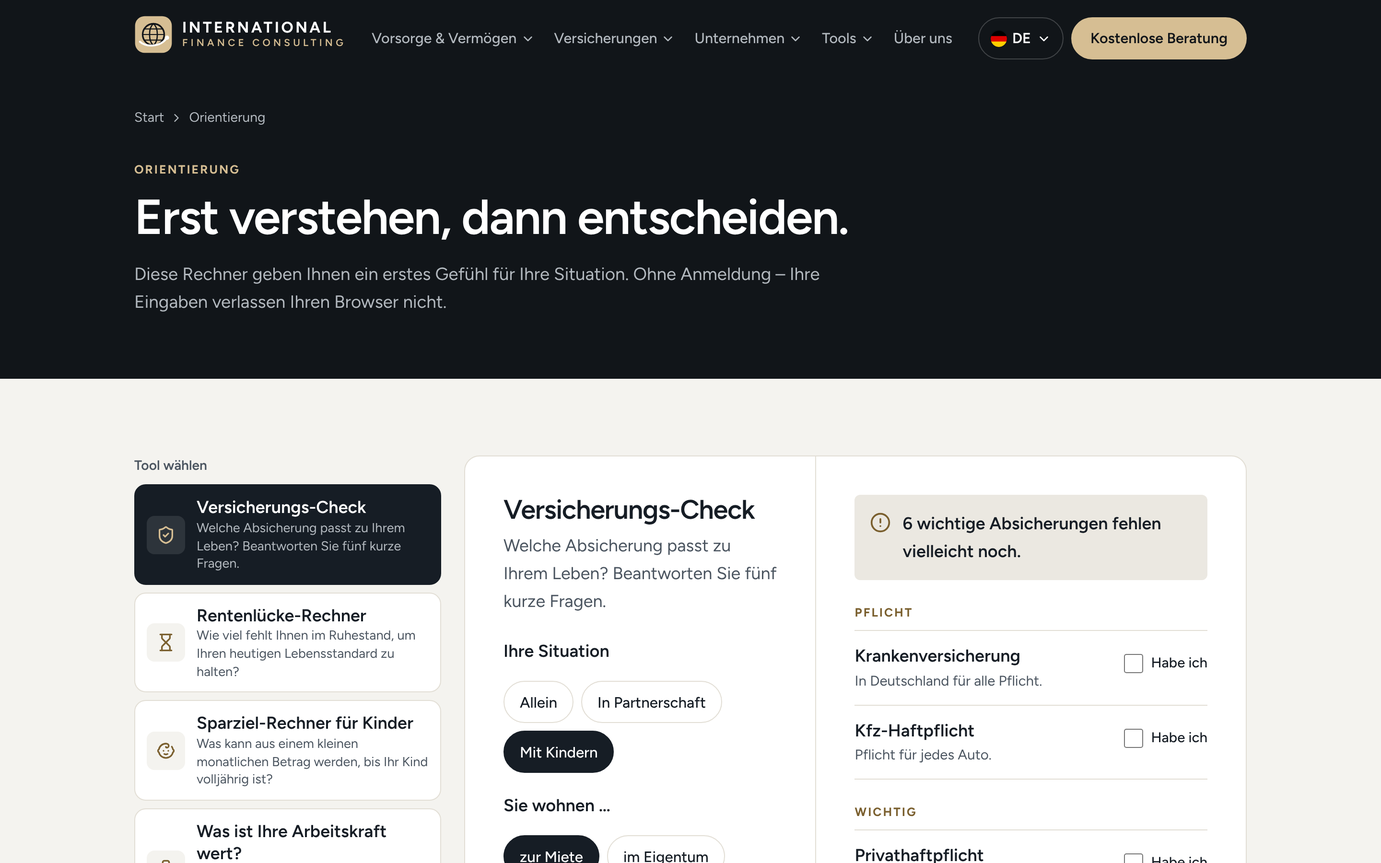
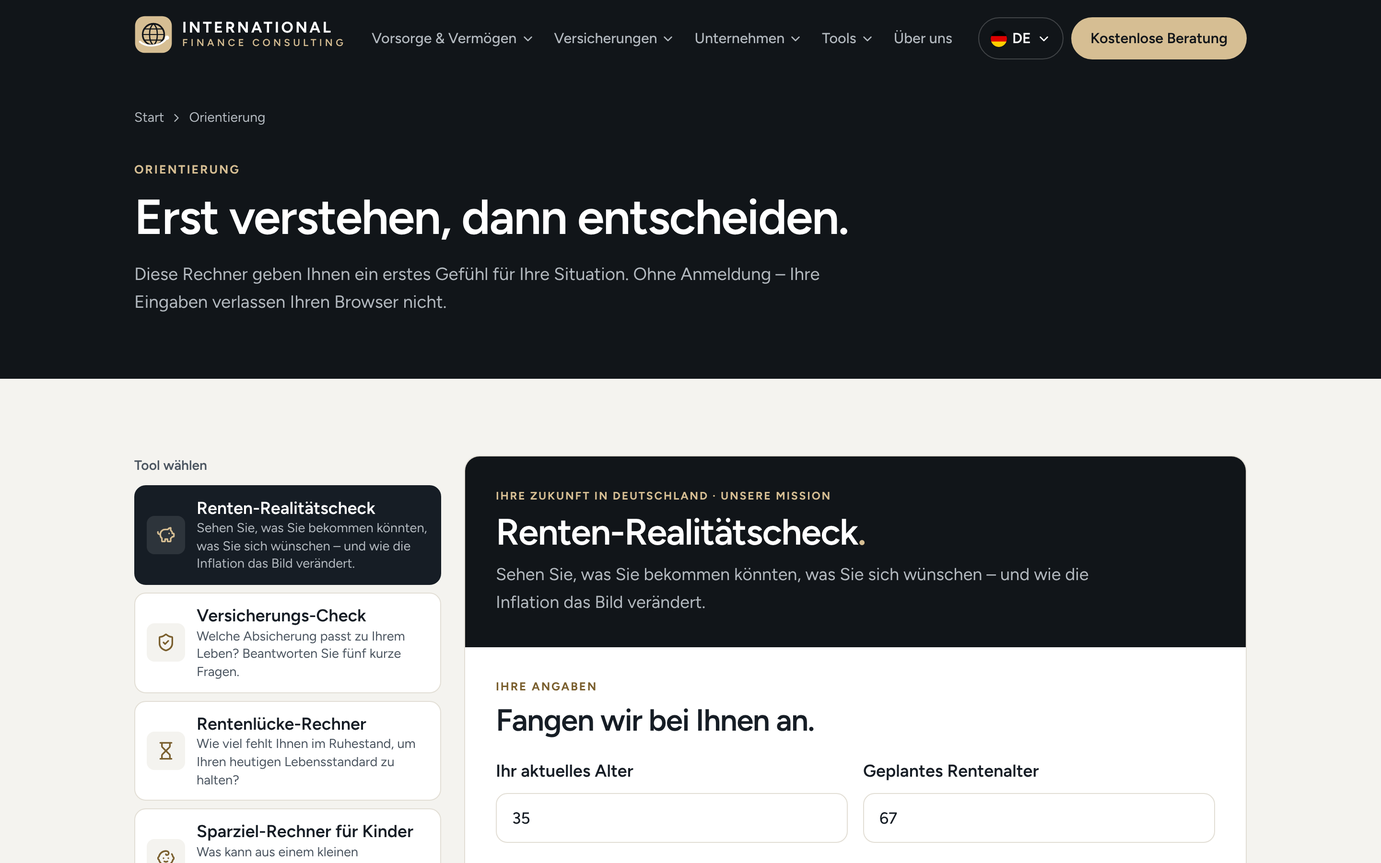
Renten-Realitätscheck als erstes Tool (4 Sprachen), neues Einzelfoto von Ismael Palanga
- Gelieferter Rechner im Website-Design, Rechenlogik, Schritte und Buttons unverändert
- Erster Eintrag im Tool-Menü und auf der Orientierungsseite
- Test für alle drei Schritte und die Fehlermeldung

Claude-Session: https://claude.ai/code/session_017NN5d4KgF8reEG7oLsMV1M

diff --git a/src/components/calculators/retirementCheckText.ts b/src/components/calculators/retirementCheckText.ts
@@ -1,0 +1,112 @@
+/** Texte zum „Retirement Reality Check“ (DE/EN/FR/AR). Rechenlogik: RetirementCheck.tsx */
+import type { Locale } from "@/lib/i18n";
+
+export type Txt = {
+  eyebrow: string; title: string; intro: string;
+  inputsLabel: string; inputsTitle: string; age: string; retire: string; salary: string; worked: string;
+  goal: string; goalHint: string; inflationNote: [string, string, string]; error: string; calculate: string;
+  progress: string;
+  s1Label: string; s1Title: string; paper: string; perMonthRetire: string; want: string; perMonthToday: string;
+  firstGap: string; firstGapNote: string; surplus: string; s1Text: string; catch: string; change: string;
+  s2Label: string; but: string; s2Title: string; defTitle: string; defText: string;
+  s2Text: [string, string, string, string]; paper2: string; futureEuros: string; real: string; realNote: string;
+  lossLabel: string; lossNote: string; perMonth: string; showGap: string; back: string;
+  s3Label: string; s3Title: string; real3: string; perMonthTodayEuros: string; want3: string;
+  gapLabel: string; noGap: string; coverage: string; s3Text: string; again: string;
+  fine: string;
+};
+
+export const T: Record<Locale, Txt> = {
+  en: {
+    eyebrow: "Your future in Germany · Our mission", title: "Retirement Reality Check", intro: "Discover what you might receive, what you want, and how inflation changes the picture.",
+    inputsLabel: "Your information", inputsTitle: "Let's start with you.", age: "Your current age", retire: "Age you plan to retire", salary: "Monthly gross salary (€)", worked: "Years worked in Germany",
+    goal: "How much would you like to have each month in retirement?", goalHint: "Choose an amount in today's money — what would support your desired lifestyle now?",
+    inflationNote: ["Fixed inflation assumption: ", "2.8% per year", ". No adjustment needed."],
+    error: "Please enter valid details. Retirement age must exceed your age; years worked cannot exceed your age minus 16.",
+    calculate: "See my retirement results →", progress: "Results progress",
+    s1Label: "Step 1 of 3 · The first picture", s1Title: "Here's what retirement looks like on paper.", paper: "Your estimated pension on paper", perMonthRetire: "Per month when you retire",
+    want: "How much you want", perMonthToday: "Per month, in today's money", firstGap: "At first glance, the difference is",
+    firstGapNote: "A simple comparison — but these amounts are in different years, so this is NOT your real retirement gap.", surplus: " (apparent surplus)",
+    s1Text: "Seems straightforward, right? There's one important thing we haven't accounted for yet.", catch: "There's a catch →", change: "Change my details",
+    s2Label: "Step 2 of 3 · The reality check", but: "BUT.", s2Title: "What about inflation?", defTitle: "What is inflation?",
+    defText: "Over time, prices generally rise. That means the same €1,000 will buy less in the future than it buys today.",
+    s2Text: ["With an assumed ", "2.8% annual inflation rate", " over ", " years, here's what changes:"],
+    paper2: "Pension on paper", futureEuros: "Future euros per month", real: "Its purchasing power in today's money", realNote: "What that pension could buy, measured in today's euros",
+    lossLabel: "Purchasing power difference", lossNote: "The difference between the nominal pension and its value in today's euros — not money deducted from your pension.",
+    perMonth: "/month", showGap: "Show my real retirement gap →", back: "← Back",
+    s3Label: "Step 3 of 3 · Your retirement gap", s3Title: "Now let's compare what really matters.", real3: "Your pension's purchasing power", perMonthTodayEuros: "Per month in today's euros",
+    want3: "Your desired retirement income", gapLabel: "YOUR ESTIMATED MONTHLY RETIREMENT GAP", noGap: "No estimated shortfall",
+    coverage: "{p}% of your target covered by the estimated pension (before deductions).", s3Text: "Planning ahead can help you understand your options for closing this gap.", again: "Try another scenario ↻",
+    fine: "Illustrative educational tool, not an official pension forecast or personal financial advice. Pension estimated using a simplified German pension-points model: annual earnings divided by an assumed reference average annual salary of €51,944 (capped at €101,400), multiplied by years worked plus projected years until retirement, and €42.52 per point monthly. Assumes salary stays constant relative to average earnings and nominal pension values increase by 2% annually. Actual pension points, future pension increases, retirement deductions, foreign pension entitlements and changes to German law may differ. Results exclude taxes and health/long-term-care contributions. The fixed 2.8% inflation figure is a scenario assumption, not a verified long-run German average. The on-paper gap compares future euros with today's euros and is intentionally marked as not comparable; the final gap uses today's purchasing power for both amounts.",
+  },
+  de: {
+    eyebrow: "Ihre Zukunft in Deutschland · Unsere Mission", title: "Renten-Realitätscheck", intro: "Sehen Sie, was Sie bekommen könnten, was Sie sich wünschen – und wie die Inflation das Bild verändert.",
+    inputsLabel: "Ihre Angaben", inputsTitle: "Fangen wir bei Ihnen an.", age: "Ihr aktuelles Alter", retire: "Geplantes Rentenalter", salary: "Monatliches Bruttogehalt (€)", worked: "Bisherige Arbeitsjahre in Deutschland",
+    goal: "Wie viel möchten Sie im Ruhestand pro Monat zur Verfügung haben?", goalHint: "Wählen Sie einen Betrag in heutigem Geld – was würde Ihren Wunsch-Lebensstil heute finanzieren?",
+    inflationNote: ["Feste Inflationsannahme: ", "2,8 % pro Jahr", ". Keine Anpassung nötig."],
+    error: "Bitte gültige Angaben machen. Das Rentenalter muss über Ihrem Alter liegen; Arbeitsjahre dürfen höchstens Ihr Alter minus 16 sein.",
+    calculate: "Mein Ergebnis anzeigen →", progress: "Fortschritt",
+    s1Label: "Schritt 1 von 3 · Der erste Eindruck", s1Title: "So sieht Ihre Rente auf dem Papier aus.", paper: "Ihre geschätzte Rente auf dem Papier", perMonthRetire: "Pro Monat bei Rentenbeginn",
+    want: "Ihr Wunschbetrag", perMonthToday: "Pro Monat, in heutigem Geld", firstGap: "Auf den ersten Blick beträgt die Differenz",
+    firstGapNote: "Ein einfacher Vergleich – aber die Beträge stammen aus verschiedenen Jahren. Das ist also NICHT Ihre echte Rentenlücke.", surplus: " (scheinbarer Überschuss)",
+    s1Text: "Klingt einfach, oder? Einen wichtigen Punkt haben wir aber noch nicht berücksichtigt.", catch: "Es gibt einen Haken →", change: "Angaben ändern",
+    s2Label: "Schritt 2 von 3 · Der Realitätscheck", but: "ABER.", s2Title: "Was ist mit der Inflation?", defTitle: "Was ist Inflation?",
+    defText: "Mit der Zeit steigen die Preise in der Regel. Für dieselben 1.000 € bekommen Sie in Zukunft also weniger als heute.",
+    s2Text: ["Bei einer angenommenen ", "Inflation von 2,8 % pro Jahr", " über ", " Jahre ändert sich Folgendes:"],
+    paper2: "Rente auf dem Papier", futureEuros: "Zukünftige Euro pro Monat", real: "Ihre Kaufkraft in heutigem Geld", realNote: "Was Sie sich mit dieser Rente leisten könnten – gemessen in heutigen Euro",
+    lossLabel: "Kaufkraft-Unterschied", lossNote: "Die Differenz zwischen der Rente auf dem Papier und ihrem Wert in heutigen Euro – kein Geld, das von Ihrer Rente abgezogen wird.",
+    perMonth: "/Monat", showGap: "Meine echte Rentenlücke zeigen →", back: "← Zurück",
+    s3Label: "Schritt 3 von 3 · Ihre Rentenlücke", s3Title: "Jetzt vergleichen wir, was wirklich zählt.", real3: "Kaufkraft Ihrer Rente", perMonthTodayEuros: "Pro Monat in heutigen Euro",
+    want3: "Ihr gewünschtes Einkommen im Ruhestand", gapLabel: "IHRE GESCHÄTZTE MONATLICHE RENTENLÜCKE", noGap: "Keine geschätzte Lücke",
+    coverage: "{p} % Ihres Ziels sind durch die geschätzte Rente gedeckt (vor Abzügen).", s3Text: "Wer früh plant, kennt seine Möglichkeiten, diese Lücke zu schließen.", again: "Anderes Szenario testen ↻",
+    fine: "Vereinfachtes Info-Tool – keine offizielle Rentenprognose und keine persönliche Finanzberatung. Die Rente wird mit einem vereinfachten Entgeltpunkte-Modell geschätzt: Jahresgehalt geteilt durch ein angenommenes Durchschnittsentgelt von 51.944 € (begrenzt auf 101.400 €), multipliziert mit bisherigen plus noch erwarteten Arbeitsjahren, und 42,52 € pro Punkt im Monat. Annahmen: Ihr Gehalt bleibt im Verhältnis zum Durchschnitt gleich, die Rentenwerte steigen nominal um 2 % pro Jahr. Tatsächliche Entgeltpunkte, künftige Rentenerhöhungen, Abschläge, ausländische Rentenansprüche und Gesetzesänderungen können abweichen. Steuern sowie Kranken- und Pflegeversicherungsbeiträge sind nicht abgezogen. Die feste Inflation von 2,8 % ist eine Szenario-Annahme, kein geprüfter langjähriger Durchschnitt für Deutschland. Die Differenz „auf dem Papier“ vergleicht künftige mit heutigen Euro und ist bewusst als nicht vergleichbar gekennzeichnet; die endgültige Lücke vergleicht beide Beträge in heutiger Kaufkraft.",
+  },
+  fr: {
+    eyebrow: "Votre avenir en Allemagne · Notre mission", title: "Le vrai bilan de votre retraite", intro: "Découvrez ce que vous pourriez toucher, ce que vous souhaitez – et comment l'inflation change la donne.",
+    inputsLabel: "Vos informations", inputsTitle: "Commençons par vous.", age: "Votre âge actuel", retire: "Âge prévu de départ à la retraite", salary: "Salaire brut mensuel (€)", worked: "Années travaillées en Allemagne",
+    goal: "De combien aimeriez-vous disposer chaque mois à la retraite ?", goalHint: "Choisissez un montant en euros d'aujourd'hui – de quoi financer le niveau de vie souhaité ?",
+    inflationNote: ["Hypothèse d'inflation fixe : ", "2,8 % par an", ". Aucun réglage nécessaire."],
+    error: "Veuillez saisir des données valides. L'âge de la retraite doit dépasser votre âge ; les années travaillées ne peuvent pas dépasser votre âge moins 16.",
+    calculate: "Voir mon résultat →", progress: "Progression",
+    s1Label: "Étape 1 sur 3 · La première image", s1Title: "Voici votre retraite sur le papier.", paper: "Votre pension estimée sur le papier", perMonthRetire: "Par mois au départ à la retraite",
+    want: "Ce que vous souhaitez", perMonthToday: "Par mois, en euros d'aujourd'hui", firstGap: "À première vue, la différence est de",
+    firstGapNote: "Une comparaison simple – mais ces montants correspondent à des années différentes : ce n'est PAS votre véritable écart de retraite.", surplus: " (excédent apparent)",
+    s1Text: "Cela semble simple, non ? Il reste pourtant un point important à prendre en compte.", catch: "Il y a un piège →", change: "Modifier mes données",
+    s2Label: "Étape 2 sur 3 · Le retour à la réalité", but: "MAIS.", s2Title: "Et l'inflation ?", defTitle: "Qu'est-ce que l'inflation ?",
+    defText: "Avec le temps, les prix augmentent en général. Avec les mêmes 1 000 €, vous pourrez donc acheter moins demain qu'aujourd'hui.",
+    s2Text: ["Avec une ", "inflation supposée de 2,8 % par an", " sur ", " ans, voici ce qui change :"],
+    paper2: "Pension sur le papier", futureEuros: "Euros futurs par mois", real: "Son pouvoir d'achat en euros d'aujourd'hui", realNote: "Ce que cette pension permettrait d'acheter, en euros d'aujourd'hui",
+    lossLabel: "Écart de pouvoir d'achat", lossNote: "La différence entre la pension nominale et sa valeur en euros d'aujourd'hui – ce n'est pas un montant retenu sur votre pension.",
+    perMonth: "/mois", showGap: "Voir mon véritable écart →", back: "← Retour",
+    s3Label: "Étape 3 sur 3 · Votre écart de retraite", s3Title: "Comparons maintenant ce qui compte vraiment.", real3: "Pouvoir d'achat de votre pension", perMonthTodayEuros: "Par mois en euros d'aujourd'hui",
+    want3: "Revenu souhaité à la retraite", gapLabel: "VOTRE ÉCART MENSUEL ESTIMÉ", noGap: "Aucun manque estimé",
+    coverage: "{p} % de votre objectif couverts par la pension estimée (avant prélèvements).", s3Text: "Anticiper vous aide à connaître vos options pour combler cet écart.", again: "Tester un autre scénario ↻",
+    fine: "Outil pédagogique simplifié – ni prévision officielle de retraite, ni conseil financier personnalisé. La pension est estimée avec un modèle simplifié de points de retraite allemands : revenu annuel divisé par un salaire moyen de référence supposé de 51 944 € (plafonné à 101 400 €), multiplié par les années travaillées plus les années restantes jusqu'à la retraite, et 42,52 € par point et par mois. Hypothèses : votre salaire reste constant par rapport à la moyenne et les valeurs de pension augmentent de 2 % par an en nominal. Les points réels, les revalorisations futures, les décotes, les droits à pension étrangers et les évolutions législatives peuvent différer. Impôts et cotisations santé/dépendance non déduits. L'inflation fixe de 2,8 % est une hypothèse de scénario, pas une moyenne allemande vérifiée sur le long terme. L'écart « sur le papier » compare des euros futurs à des euros d'aujourd'hui et est volontairement signalé comme non comparable ; l'écart final compare les deux montants en pouvoir d'achat actuel.",
+  },
+  ar: {
+    eyebrow: "مستقبلك في ألمانيا · مهمتنا", title: "حقيقة تقاعدك بالأرقام", intro: "اعرف كم ممكن يكون معاشك، وكم تحتاج فعلاً، وكيف يغيّر التضخم الصورة.",
+    inputsLabel: "معلوماتك", inputsTitle: "خلّينا نبدأ فيك.", age: "عمرك الحالي", retire: "العمر اللي ناوي تتقاعد فيه", salary: "الراتب الشهري الإجمالي (€)", worked: "سنوات العمل في ألمانيا حتى الآن",
+    goal: "كم تحب يكون معك كل شهر بعد التقاعد؟", goalHint: "اختر مبلغاً بقيمة اليوم – كم تحتاج اليوم لتعيش بالمستوى اللي تتمناه؟",
+    inflationNote: ["افتراض ثابت للتضخم: ", "2.8% سنوياً", ". ما في داعي تغيّر شي."],
+    error: "الرجاء إدخال بيانات صحيحة. لازم يكون عمر التقاعد أكبر من عمرك، وسنوات العمل ما تزيد عن عمرك ناقص 16.",
+    calculate: "اعرض نتيجتي ←", progress: "التقدّم",
+    s1Label: "الخطوة 1 من 3 · الصورة الأولى", s1Title: "هكذا يبدو تقاعدك على الورق.", paper: "معاشك المتوقع على الورق", perMonthRetire: "شهرياً عند التقاعد",
+    want: "المبلغ اللي تريده", perMonthToday: "شهرياً، بقيمة اليوم", firstGap: "من أول نظرة، الفرق هو",
+    firstGapNote: "مقارنة بسيطة – لكن المبالغ من سنوات مختلفة، فهذا ليس الفجوة الحقيقية في تقاعدك.", surplus: " (فائض ظاهري)",
+    s1Text: "يبدو الموضوع سهلاً، صح؟ بس في نقطة مهمة لسا ما حسبناها.", catch: "في شي لازم تعرفه ←", change: "تعديل بياناتي",
+    s2Label: "الخطوة 2 من 3 · مواجهة الواقع", but: "لكن.", s2Title: "وماذا عن التضخم؟", defTitle: "ما هو التضخم؟",
+    defText: "مع الوقت ترتفع الأسعار عادةً. يعني نفس الـ 1,000 € بتشتري فيها بالمستقبل أقل من اليوم.",
+    s2Text: ["مع ", "تضخم مفترض بنسبة 2.8% سنوياً", " على مدى ", " سنة، هذا اللي بيتغيّر:"],
+    paper2: "المعاش على الورق", futureEuros: "يورو مستقبلي شهرياً", real: "قوته الشرائية بقيمة اليوم", realNote: "ماذا يمكنك أن تشتري بهذا المعاش، محسوباً بيورو اليوم",
+    lossLabel: "فرق القوة الشرائية", lossNote: "الفرق بين المعاش الاسمي وقيمته بيورو اليوم – وليس مبلغاً يُخصم من معاشك.",
+    perMonth: " شهرياً", showGap: "اعرض فجوتي الحقيقية ←", back: "→ رجوع",
+    s3Label: "الخطوة 3 من 3 · فجوة التقاعد", s3Title: "الآن نقارن الشي اللي فعلاً مهم.", real3: "القوة الشرائية لمعاشك", perMonthTodayEuros: "شهرياً بيورو اليوم",
+    want3: "الدخل اللي تتمناه بالتقاعد", gapLabel: "فجوة التقاعد الشهرية المتوقعة", noGap: "لا توجد فجوة متوقعة",
+    coverage: "{p}% من هدفك يغطيه المعاش المتوقع (قبل الاستقطاعات).", s3Text: "التخطيط المبكر يساعدك تعرف خياراتك لسدّ هذه الفجوة.", again: "جرّب سيناريو آخر ↻",
+    fine: "أداة توضيحية مبسّطة – ليست توقعاً رسمياً للمعاش ولا استشارة مالية شخصية. يُقدَّر المعاش بنموذج مبسّط لنقاط المعاش الألمانية: الدخل السنوي مقسوماً على متوسط دخل مرجعي مفترض قدره 51,944 € (بحد أقصى 101,400 €)، مضروباً في سنوات العمل السابقة والمتوقعة حتى التقاعد، و42.52 € لكل نقطة شهرياً. الافتراضات: يبقى راتبك ثابتاً نسبةً إلى المتوسط، وترتفع قيم المعاش اسمياً بنسبة 2% سنوياً. قد تختلف النقاط الفعلية والزيادات المستقبلية والخصومات وحقوق المعاش من الخارج وتغييرات القانون. لم تُخصم الضرائب ولا اشتراكات التأمين الصحي والرعاية. التضخم الثابت 2.8% افتراض للسيناريو وليس متوسطاً ألمانياً طويل الأمد مؤكداً. الفرق «على الورق» يقارن يورو المستقبل بيورو اليوم ولذلك مُعلَّم بأنه غير قابل للمقارنة؛ أما الفجوة النهائية فتقارن المبلغين بالقوة الشرائية الحالية.",
+  },
+};
+
+
+export const retirementCheckTitle = (l: Locale) => T[l].title;
+export const retirementCheckIntro = (l: Locale) => T[l].intro;

diff --git a/src/components/calculators/RetirementCheck.tsx b/src/components/calculators/RetirementCheck.tsx
@@ -1,0 +1,176 @@
+"use client";
+
+/**
+ * „Retirement Reality Check“ – vom Kunden geliefertes Tool (IFC_retirement_calculator.html).
+ * Rechenlogik, Schritte und Buttons sind 1:1 übernommen; nur Design (Farben, Schrift)
+ * und Übersetzungen wurden an die Website angepasst. Bitte die Formel nicht ändern.
+ */
+import { useId, useRef, useState } from "react";
+import { numberLocale, type Locale } from "@/lib/i18n";
+import { T } from "./retirementCheckText";
+
+type Result = { paper: number; real: number; goal: number; years: number; shortfall: number };
+
+const card = "rounded-2xl border border-line bg-ivory p-5";
+const redCard = "rounded-2xl border-2 border-error/70 bg-[#fbeceb] p-5";
+const bigNum = "ltr-nums my-2 text-[clamp(1.6rem,4vw,2.4rem)] font-bold tracking-[-0.03em] [overflow-wrap:anywhere]";
+const label = "text-[0.9rem] text-muted";
+const small = "text-[0.85rem] leading-snug text-muted";
+const stepNum = "text-[0.75rem] font-bold uppercase tracking-[0.12em] text-brass";
+const h2 = "display mb-5 mt-2 text-[1.5rem] text-navy sm:text-[2rem]";
+const btn = "btn btn-primary";
+const btn2 = "btn btn-ghost";
+
+export function RetirementCheck({ locale }: { locale: Locale }) {
+  const t = T[locale];
+  const fmt = (x: number) => new Intl.NumberFormat(numberLocale[locale], { style: "currency", currency: "EUR", maximumFractionDigits: 0 }).format(x).replace(/[\u200e\u200f]/g, "");
+  const uid = useId();
+  const [v, setV] = useState({ age: "35", retire: "67", salary: "3500", worked: "10" });
+  const [goal, setGoal] = useState(2500);
+  const [error, setError] = useState("");
+  const [res, setRes] = useState<Result | null>(null);
+  const [step, setStep] = useState(1);
+  const resultsRef = useRef<HTMLDivElement>(null);
+  const inputsRef = useRef<HTMLDivElement>(null);
+
+  const scrollTo = (el: HTMLElement | null) => requestAnimationFrame(() => el?.scrollIntoView({ behavior: "smooth", block: "start" }));
+  const show = (n: number) => { setStep(n); scrollTo(resultsRef.current); };
+
+  // Rechenlogik unverändert aus der gelieferten Datei
+  function calculate() {
+    const age = +v.age, ret = +v.retire, salary = +v.salary, worked = +v.worked;
+    const valid = [age, ret, salary, worked, goal].every(Number.isFinite) && age >= 18 && age <= 80 && ret > age && ret <= 85 && salary >= 0 && salary <= 100000 && worked >= 0 && worked <= 60 && worked <= age - 16;
+    if (!valid) { setError(t.error); return; }
+    setError("");
+    const years = ret - age;
+    const pts = Math.min(salary * 12, 101400) / 51944 * (worked + years);
+    const paper = pts * 42.52 * Math.pow(1.02, years);
+    const real = paper / Math.pow(1.028, years);
+    const shortfall = Math.max(0, goal - real);
+    setRes({ paper, real, goal, years, shortfall });
+    show(1);
+  }
+  const reset = () => { setRes(null); scrollTo(inputsRef.current); };
+
+  const fields = [["age", t.age, 18, 80, 1], ["retire", t.retire, 40, 85, 1], ["salary", t.salary, 0, 100000, 100], ["worked", t.worked, 0, 60, 1]] as const;
+  const fill = ((goal - 500) / (10000 - 500)) * 100;
+  const first = res ? res.goal - res.paper : 0;
+  const percent = res ? Math.min(100, res.goal > 0 ? (res.real / res.goal) * 100 : 100) : 0;
+
+  return (
+    <div className="card overflow-hidden">
+      <header className="navy-surface on-dark px-5 py-6 text-white sm:px-8 sm:py-8">
+        <p className="tracking-label text-[0.72rem] font-bold text-champagne-light">{t.eyebrow}</p>
+        <h2 className="display mt-2 text-[1.8rem] sm:text-[2.4rem]">{t.title}<span className="text-champagne-light">.</span></h2>
+        <p className="mt-2 max-w-2xl text-mist">{t.intro}</p>
+      </header>
+
+      <div className="p-5 sm:p-8">
+        <div ref={inputsRef} className="scroll-mt-24">
+          <p className={stepNum}>{t.inputsLabel}</p>
+          <h3 className={h2}>{t.inputsTitle}</h3>
+          <div className="grid gap-4 sm:grid-cols-2">
+            {fields.map(([k, l, min, max, step]) => (
+              <label key={k} className="block font-semibold text-navy">
+                {l}
+                <input type="number" inputMode="numeric" min={min} max={max} step={step} value={v[k]} onChange={(e) => setV((s) => ({ ...s, [k]: e.target.value }))}
+                  className="ltr-nums mt-2 block w-full rounded-xl border border-line bg-paper px-4 py-3 text-[1.05rem] font-medium text-ink focus:border-navy" />
+              </label>
+            ))}
+          </div>
+          <div className="mt-7">
+            <div className="flex flex-wrap items-center justify-between gap-3">
+              <label htmlFor={`${uid}-goal`} className="font-semibold text-navy">{t.goal}</label>
+              <output htmlFor={`${uid}-goal`} className="ltr-nums text-[1.5rem] font-bold text-brass">{fmt(goal)}</output>
+            </div>
+            <input id={`${uid}-goal`} type="range" min={500} max={10000} step={100} value={goal} onChange={(e) => setGoal(+e.target.value)} style={{ ["--fill" as string]: `${fill}%` }} aria-describedby={`${uid}-goalhint`} aria-valuetext={fmt(goal)} />
+            <p id={`${uid}-goalhint`} className={small}>{t.goalHint}</p>
+          </div>
+          <p className={`${small} mt-4`}>{t.inflationNote[0]}<strong className="text-brass">{t.inflationNote[1]}</strong>{t.inflationNote[2]}</p>
+          <p role="alert" className="mt-2 min-h-5 text-[0.9rem] font-medium text-error">{error}</p>
+          <button type="button" className="btn btn-gold mt-2" onClick={calculate} data-track="tool_retirement_calc">{t.calculate}</button>
+        </div>
+
+        {res && (
+          <div ref={resultsRef} className="mt-10 scroll-mt-24 border-t border-line pt-6" aria-live="polite">
+            <div className="mb-5 flex gap-2" role="progressbar" aria-label={t.progress} aria-valuemin={1} aria-valuemax={3} aria-valuenow={step}>
+              {[1, 2, 3].map((i) => <span key={i} className={`h-1.5 flex-1 rounded-full transition-colors ${i <= step ? "bg-champagne" : "bg-line"}`} />)}
+            </div>
+
+            {step === 1 && (
+              <article className="dropdown-panel">
+                <p className={stepNum}>{t.s1Label}</p>
+                <h3 className={h2}>{t.s1Title}</h3>
+                <div className="grid gap-3 sm:grid-cols-2">
+                  <div className={card}><div className={label}>{t.paper}</div><div className={`${bigNum} text-navy`}>{fmt(res.paper)}</div><div className={small}>{t.perMonthRetire}</div></div>
+                  <div className={card}><div className={label}>{t.want}</div><div className={`${bigNum} text-brass`}>{fmt(res.goal)}</div><div className={small}>{t.perMonthToday}</div></div>
+                </div>
+                <div className={`${card} mt-3`}>
+                  <div className={label}>{t.firstGap}</div>
+                  <div className={`${bigNum.replace("ltr-nums ", "")} text-navy`}><span className="ltr-nums">{(first > 0 ? "− " : "") + fmt(Math.abs(first))}</span>{first <= 0 ? t.surplus : ""}</div>
+                  <div className={small}>{t.firstGapNote}</div>
+                </div>
+                <p className="mt-5 text-muted">{t.s1Text}</p>
+                <div className="mt-5 flex flex-wrap gap-3">
+                  <button type="button" className={btn} onClick={() => show(2)}>{t.catch}</button>
+                  <button type="button" className={btn2} onClick={reset}>{t.change}</button>
+                </div>
+              </article>
+            )}
+
+            {step === 2 && (
+              <article className="dropdown-panel">
+                <p className={stepNum}>{t.s2Label}</p>
+                <div className="my-3 text-[clamp(3.5rem,12vw,6.5rem)] font-black leading-none tracking-[-0.06em] text-error">{t.but}</div>
+                <h3 className={h2}>{t.s2Title}</h3>
+                <div className="my-4 rounded-e-xl border-s-[3px] border-champagne bg-sand px-4 py-3">
+                  <strong className="text-navy">{t.defTitle}</strong>
+                  <p className="mt-1 text-muted">{t.defText}</p>
+                </div>
+                <p className="text-muted">{t.s2Text[0]}<strong className="text-brass">{t.s2Text[1]}</strong>{t.s2Text[2]}<strong className="text-navy">{res.years}</strong>{t.s2Text[3]}</p>
+                <div className="mt-4 grid gap-3 sm:grid-cols-2">
+                  <div className={card}><div className={label}>{t.paper2}</div><div className={`${bigNum} text-navy`}>{fmt(res.paper)}</div><div className={small}>{t.futureEuros}</div></div>
+                  <div className={redCard}><div className={label}>{t.real}</div><div className={`${bigNum} text-error`}>{fmt(res.real)}</div><div className={small}>{t.realNote}</div></div>
+                </div>
+                <div className={`${redCard} mt-3`}>
+                  <div className={label}>{t.lossLabel}</div>
+                  <div className="my-2 text-[clamp(1.75rem,5vw,2.9rem)] font-black tracking-[-0.03em] text-error"><span className="ltr-nums">{"− " + fmt(Math.max(0, res.paper - res.real))}</span>{t.perMonth}</div>
+                  <div className={small}>{t.lossNote}</div>
+                </div>
+                <div className="mt-5 flex flex-wrap gap-3">
+                  <button type="button" className={btn} onClick={() => show(3)}>{t.showGap}</button>
+                  <button type="button" className={btn2} onClick={() => show(1)}>{t.back}</button>
+                </div>
+              </article>
+            )}
+
+            {step === 3 && (
+              <article className="dropdown-panel">
+                <p className={stepNum}>{t.s3Label}</p>
+                <h3 className={h2}>{t.s3Title}</h3>
+                <div className="grid gap-3 sm:grid-cols-2">
+                  <div className={card}><div className={label}>{t.real3}</div><div className={`${bigNum} text-error`}>{fmt(res.real)}</div><div className={small}>{t.perMonthTodayEuros}</div></div>
+                  <div className={card}><div className={label}>{t.want3}</div><div className={`${bigNum} text-brass`}>{fmt(res.goal)}</div><div className={small}>{t.perMonthTodayEuros}</div></div>
+                </div>
+                <div className={`${redCard} mt-3`}>
+                  <div className="text-[0.85rem] font-bold tracking-[0.04em] text-error">{t.gapLabel}</div>
+                  <div className="my-2 text-[clamp(1.75rem,5vw,2.9rem)] font-black tracking-[-0.03em] text-error">{res.shortfall > 0 ? <><span className="ltr-nums">{"− " + fmt(res.shortfall)}</span>{t.perMonth}</> : t.noGap}</div>
+                  <div className="my-3 h-3 overflow-hidden rounded-full bg-error/25"><div className="h-full rounded-full bg-navy transition-[width] duration-500" style={{ width: `${percent}%` }} /></div>
+                  <div className={small}>{t.coverage.replace("{p}", String(Math.round(percent)))}</div>
+                </div>
+                <p className="mt-5 text-muted">{t.s3Text}</p>
+                <div className="mt-5 flex flex-wrap gap-3">
+                  <button type="button" className={btn2} onClick={() => show(2)}>{t.back}</button>
+                  <button type="button" className={btn} onClick={reset}>{t.again}</button>
+                </div>
+              </article>
+            )}
+          </div>
+        )}
+
+        <p className="mt-8 border-t border-line pt-5 text-[0.78rem] leading-relaxed text-muted">{t.fine}</p>
+      </div>
+    </div>
+  );
+}
+

diff --git a/src/components/service/Pages.tsx b/src/components/service/Pages.tsx
@@ -14,6 +14,8 @@ import { LeadForm } from "@/components/forms/LeadForm";
 import { IncomeValue, KidsSavings, PensionGap } from "@/components/calculators/Calculators";
 import { ArrivalChecklist, InflationCalc, InsuranceCheck } from "@/components/calculators/Tools";
 import { ToolHub } from "@/components/calculators/ToolHub";
+import { RetirementCheck } from "@/components/calculators/RetirementCheck";
+import { retirementCheckIntro, retirementCheckTitle } from "@/components/calculators/retirementCheckText";
 
 const topicFor: Record<ServiceKey, TopicKey> = { retirement: "retirement", kids: "kids", bu: "bu", pkv: "pkv", bav: "bav", bkv: "bkv" };
 const arrow = "rtl:rotate-180";
@@ -470,6 +472,7 @@ export function ToolsPage({ locale, t }: { locale: Locale; t: Dict }) {
       <Section tone="ivory" compact>
         <h2 className="sr-only">{chooseLabel[locale]}</h2>
         <ToolHub chooseLabel={chooseLabel[locale]} tools={[
+          { id: "renten-check", title: retirementCheckTitle(locale), desc: retirementCheckIntro(locale), node: <RetirementCheck locale={locale} /> },
           { id: "versicherungs-check", title: t.tools2.check.title, desc: t.tools2.check.intro, node: <InsuranceCheck locale={locale} t={t.tools2} discuss={t.calc.discuss} /> },
           { id: "rentenluecke", title: t.calc.pension.title, desc: t.calc.pension.intro, node: <PensionGap locale={locale} t={t.calc} /> },
           { id: "kinder-sparziel", title: t.calc.kids.title, desc: t.calc.kids.intro, node: <KidsSavings locale={locale} t={t.calc} /> },

diff --git a/src/app/[locale]/layout.tsx b/src/app/[locale]/layout.tsx
@@ -5,6 +5,7 @@ import { notFound } from "next/navigation";
 import { company } from "@/config/company";
 import { dir, isLocale, locales } from "@/lib/i18n";
 import { getDict } from "@/content";
+import { retirementCheckTitle } from "@/components/calculators/retirementCheckText";
 import { Header, type NavGroup } from "@/components/layout/Header";
 import { extraKeys, href } from "@/lib/i18n";
 import { Footer } from "@/components/layout/Footer";
@@ -20,7 +21,7 @@ export function generateStaticParams() {
 }
 
 function navGroups(locale: Parameters<typeof href>[0], t: ReturnType<typeof getDict>): NavGroup[] {
-  const tools: [string, string][] = [["versicherungs-check", t.tools2.check.title], ["rentenluecke", t.calc.pension.title], ["kinder-sparziel", t.calc.kids.title], ["arbeitskraft", t.calc.income.title], ["inflation", t.tools2.inflation.title], ["ankommen", t.tools2.arrival.title]];
+  const tools: [string, string][] = [["renten-check", retirementCheckTitle(locale)], ["versicherungs-check", t.tools2.check.title], ["rentenluecke", t.calc.pension.title], ["kinder-sparziel", t.calc.kids.title], ["arbeitskraft", t.calc.income.title], ["inflation", t.tools2.inflation.title], ["ankommen", t.tools2.arrival.title]];
   return [
     { id: "invest", label: t.v3.navInvest, items: [
       { label: t.services.items.retirement.title, href: href(locale, "retirement") },

diff --git a/tests/site.spec.ts b/tests/site.spec.ts
@@ -202,3 +202,21 @@ for (const path of axePages) {
 
 // unbenutzte Variable vermeiden
 void routes;
+
+test("Renten-Realitätscheck: drei Schritte, Rechenlogik wie im gelieferten Tool", async ({ page }) => {
+  await page.goto("/de/orientierung#renten-check");
+  const panel = page.locator("#tool-panel");
+  await panel.getByRole("button", { name: /Mein Ergebnis anzeigen/ }).click();
+  await expect(panel.getByText("Schritt 1 von 3")).toBeVisible();
+  await expect(panel.getByText("2.721 €").first()).toBeVisible();
+  await panel.getByRole("button", { name: /Es gibt einen Haken/ }).click();
+  await expect(panel.getByText("1.125 €").first()).toBeVisible();
+  await panel.getByRole("button", { name: /echte Rentenlücke/ }).click();
+  await expect(panel.getByText("− 1.375 €")).toBeVisible();
+  await panel.getByRole("button", { name: /Anderes Szenario/ }).click();
+  await expect(panel.getByText("Schritt 3 von 3")).toHaveCount(0);
+  // Ungültige Eingabe zeigt Fehlermeldung
+  await panel.getByLabel("Geplantes Rentenalter").fill("30");
+  await panel.getByRole("button", { name: /Mein Ergebnis anzeigen/ }).click();
+  await expect(panel.getByRole("alert")).toContainText("Rentenalter");
+});

diff --git a/src/components/calculators/ToolHub.tsx b/src/components/calculators/ToolHub.tsx
@@ -1,9 +1,9 @@
 "use client";
 
 import { useEffect, useState, type ReactNode } from "react";
-import { ShieldCheck, Hourglass, Baby, Briefcase, TrendingDown, ListChecks } from "lucide-react";
+import { PiggyBank, ShieldCheck, Hourglass, Baby, Briefcase, TrendingDown, ListChecks } from "lucide-react";
 
-const icons = { "versicherungs-check": ShieldCheck, rentenluecke: Hourglass, "kinder-sparziel": Baby, arbeitskraft: Briefcase, inflation: TrendingDown, ankommen: ListChecks } as const;
+const icons = { "renten-check": PiggyBank, "versicherungs-check": ShieldCheck, rentenluecke: Hourglass, "kinder-sparziel": Baby, arbeitskraft: Briefcase, inflation: TrendingDown, ankommen: ListChecks } as const;
 export type ToolId = keyof typeof icons;
 
 /** Tool-Auswahl wie eine Liste – es wird immer nur ein Tool gezeigt (kurze Seite, klare Orientierung) */

diff --git a/CLIENT-DATA-REQUIRED.md b/CLIENT-DATA-REQUIRED.md
@@ -41,3 +41,10 @@
 | Echte Kundenbewertungen (mit dokumentierter Einwilligung) | keine – Bereich ist öffentlich ausgeblendet, in der Vorschau Platzhalter | `src/config/company.ts` → `reviews` |
 | Fotos für „Fragen, die Sie sich stellen“ (Familie / Unternehmer) | gestaltete Grafik als Ersatz | `public/images/…` + `company.issueImages` |
 | WhatsApp-Nummer | +49 179 7216990 (wie Telefon) – bitte bestätigen | `company.whatsapp` |
+
+## Tools (Umbau auf 3 Haupt-Tools)
+- [x] Tool 1: „Retirement Reality Check“ (vom Kunden geliefert) – eingebaut als `renten-check`, Rechenlogik 1:1 übernommen, DE/AR/FR übersetzt
+- [ ] Tool 2 – folgt
+- [ ] Tool 3 – folgt
+- [ ] Danach: bisherige 6 Tools entfernen oder ausblenden (bis dahin bleiben sie unter dem neuen Tool sichtbar)
+- [ ] Übersetzung des Renten-Checks (AR/FR) von Muttersprachlern gegenlesen
